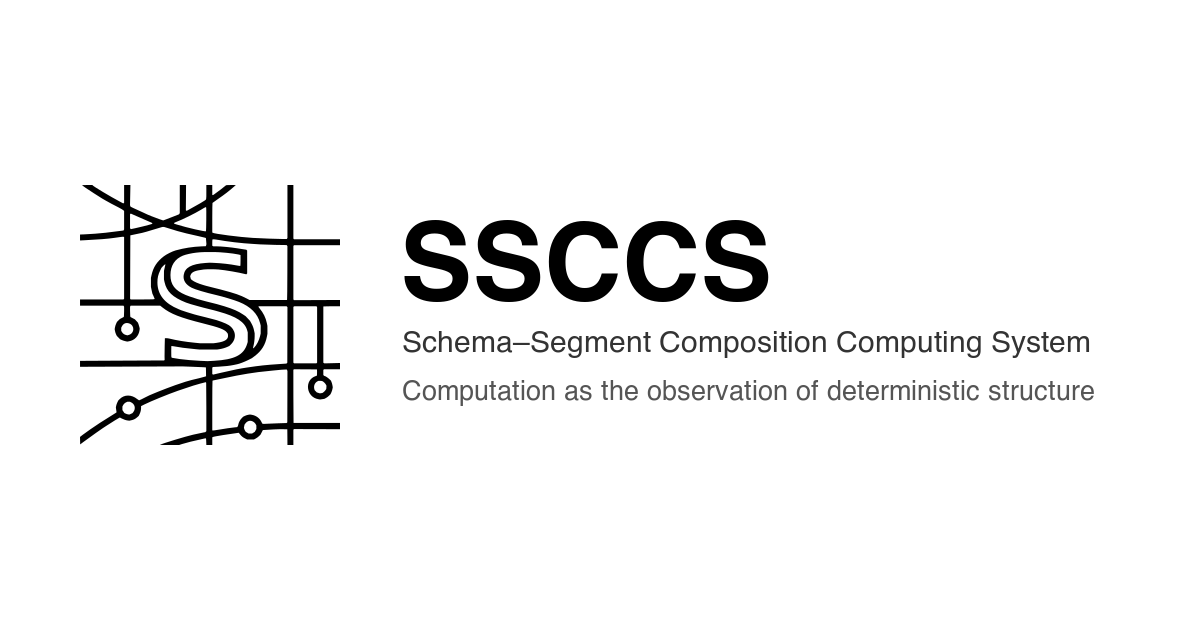
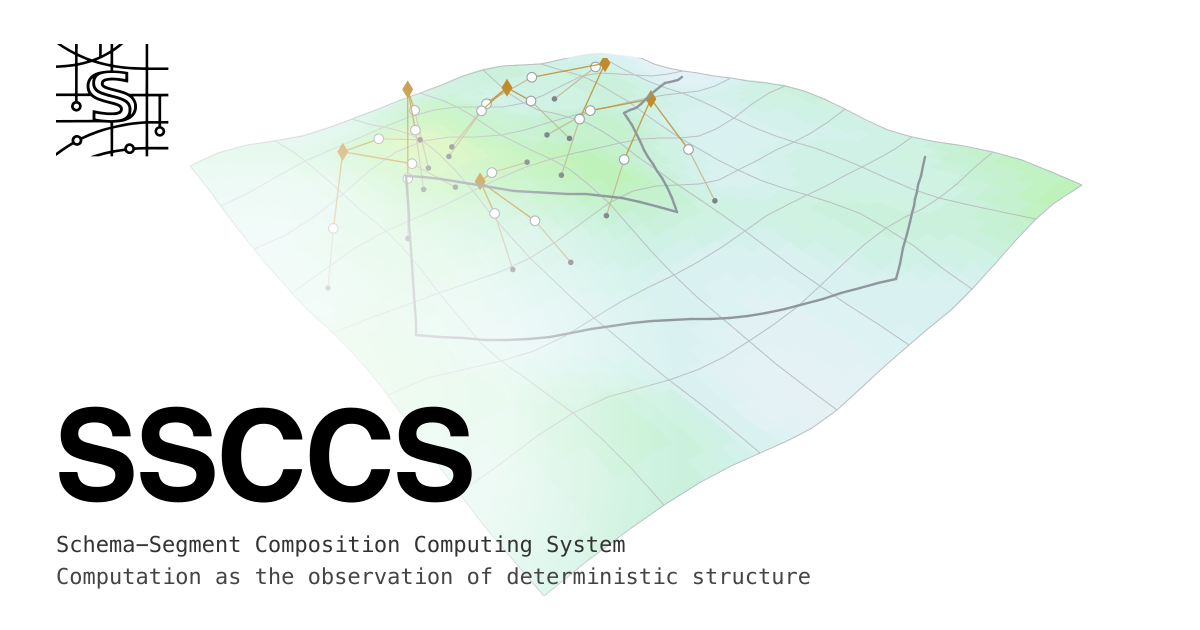
Add social card rendered from the scene's geometry

diff --git a/README.md b/README.md
@@ -30,7 +30,8 @@ npm run check    # astro check: types and diagnostics
 | `src/styles/global.css` | the tokens, the reset, the base type, and the two shared primitives: the column and the definition list |
 | `src/consts.ts` | the name, the description, the sections, and every link |
 | `src/types/` | the one ambient declaration the untyped plotly bundle needs |
-| `public/` | the mark, the favicon, the key, the headers, and the partner logos |
+| `scripts/og-card.mjs` | renders the social card from the scene's own geometry; `scripts/og-scene.mjs` holds that geometry |
+| `public/` | the mark, the favicon, the social card, the key, the headers, and the partner logos |
 
 Component styles are scoped by Astro, so a rule lives in the `<style>` block of the
 component that renders the element. The two exceptions are the elements more than one
@@ -85,6 +86,45 @@ asset on the site. The scene is a JavaScript translation of the ontology in
 a Field raising a constraint potential, Observations collapsing into projections,
 and Data as the shadow they cast. Its colours live in `src/lib/monument.js` and
 belong to the drawing rather than to the page.
+
+## The social card
+
+`public/og.svg` is the image a link to the site carries: the name, the tagline, and
+the landscape the opening block draws, in one card. `public/og.png` is the same
+card at 1200 by 630, which is the size the head declares and the size a crawler
+shows when it will not take an SVG. Both come from `scripts/og-card.mjs`, which
+draws the card out of `scripts/og-scene.mjs`: the monument's sheet, projected with
+the camera the page's scene opens on, moved back along its own line of sight, so
+the sheet's relief, its spectrum, the lattice on it, the Scheme's relations, and
+the observers' lines of sight all come from the scene's model rather than from the
+card being drawn by hand.
+
+The landscape is drawn whole: the sheet is framed inside the card, with a margin
+above and a little air on each side, so no edge of it is cropped. The camera is the
+page's own, lifted so the sheet is read as a surface rather than edge-on. The copy
+sits below and to the left of the landscape, on a soft white veil risen out of that
+corner, which keeps the type on the page's own paper without cutting the drawing.
+
+| Part of the card | What is there |
+|---|---|
+| top and right | air, with the sheet's far ground a little inside the edge |
+| centre | the field, its lattice, the Scheme's relations, and the observers |
+| top left | the mark |
+| bottom left | the name, under the veil, and the two lines of the tagline |
+
+A `clipPath` cuts the lattice, the relations, and the observers at the sheet's own
+box, so nothing is drawn past the field it belongs to. The sheet itself is drawn in
+full, which is what keeps the composition balanced top to bottom.
+
+```
+node scripts/og-card.mjs > public/og.svg
+rsvg-convert -w 1200 -h 630 -b white public/og.svg -o public/og.png
+```
+
+The type is Archivo at 600 and IBM Plex Mono, the page's own faces, resolved from
+the machine that renders the PNG. The card's lines are text so the copy stays
+selectable in the SVG, and the mark is `public/mark.svg` itself, so the two cannot
+drift apart.
 
 ## Deploy
 
